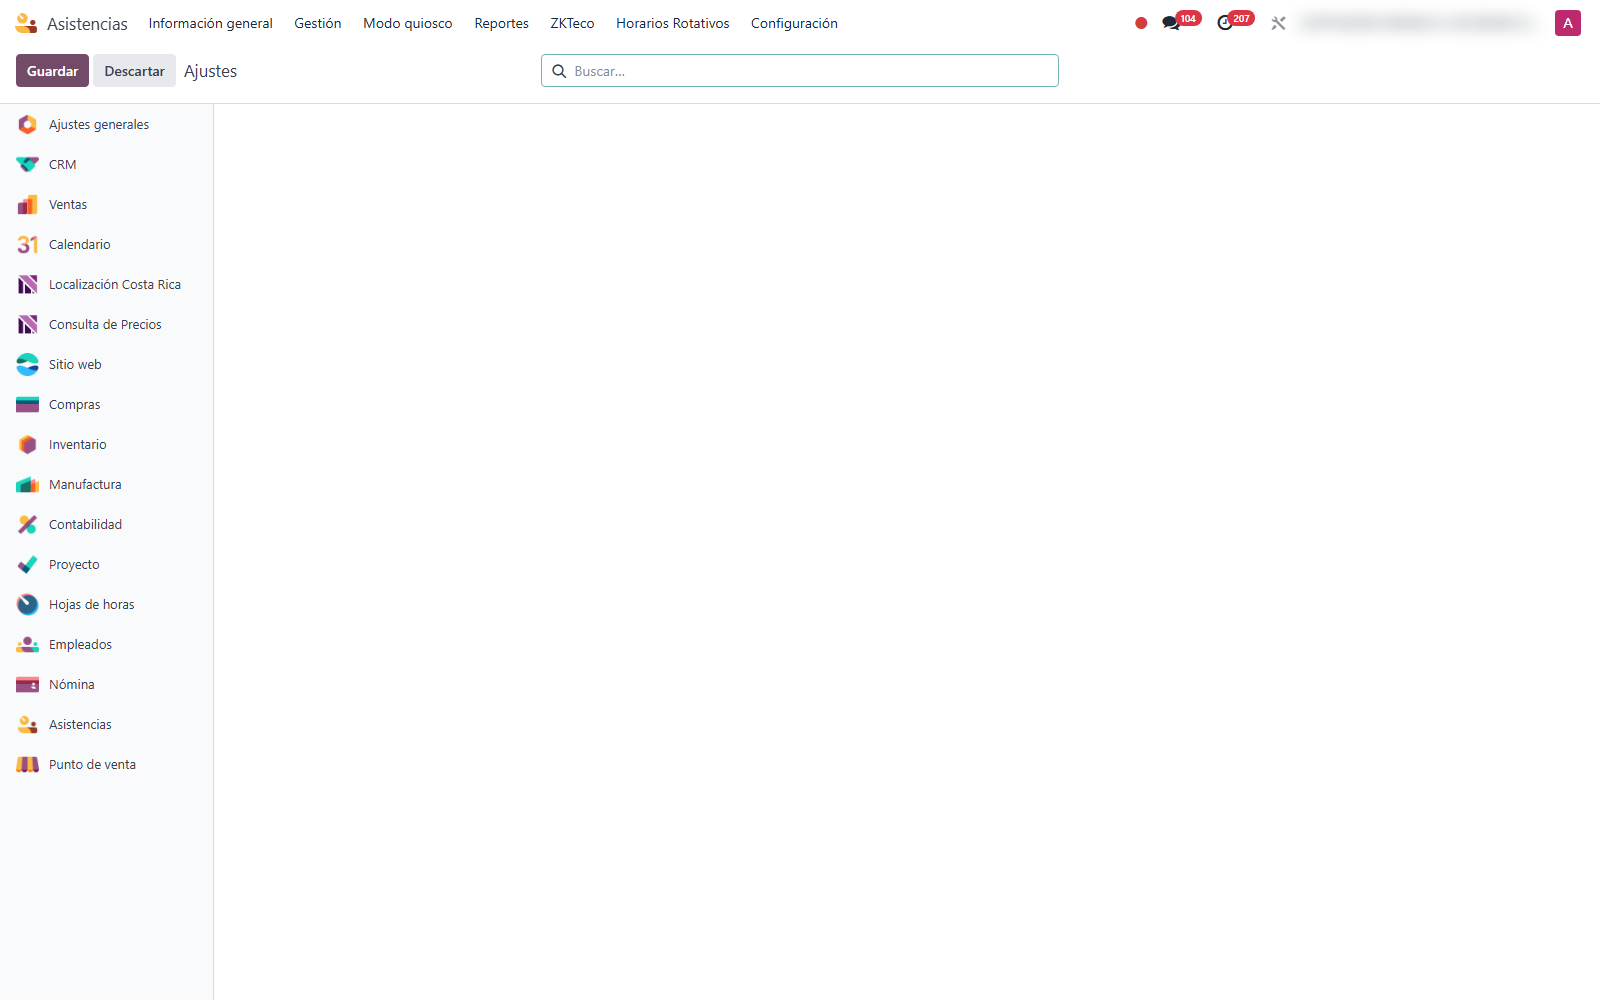
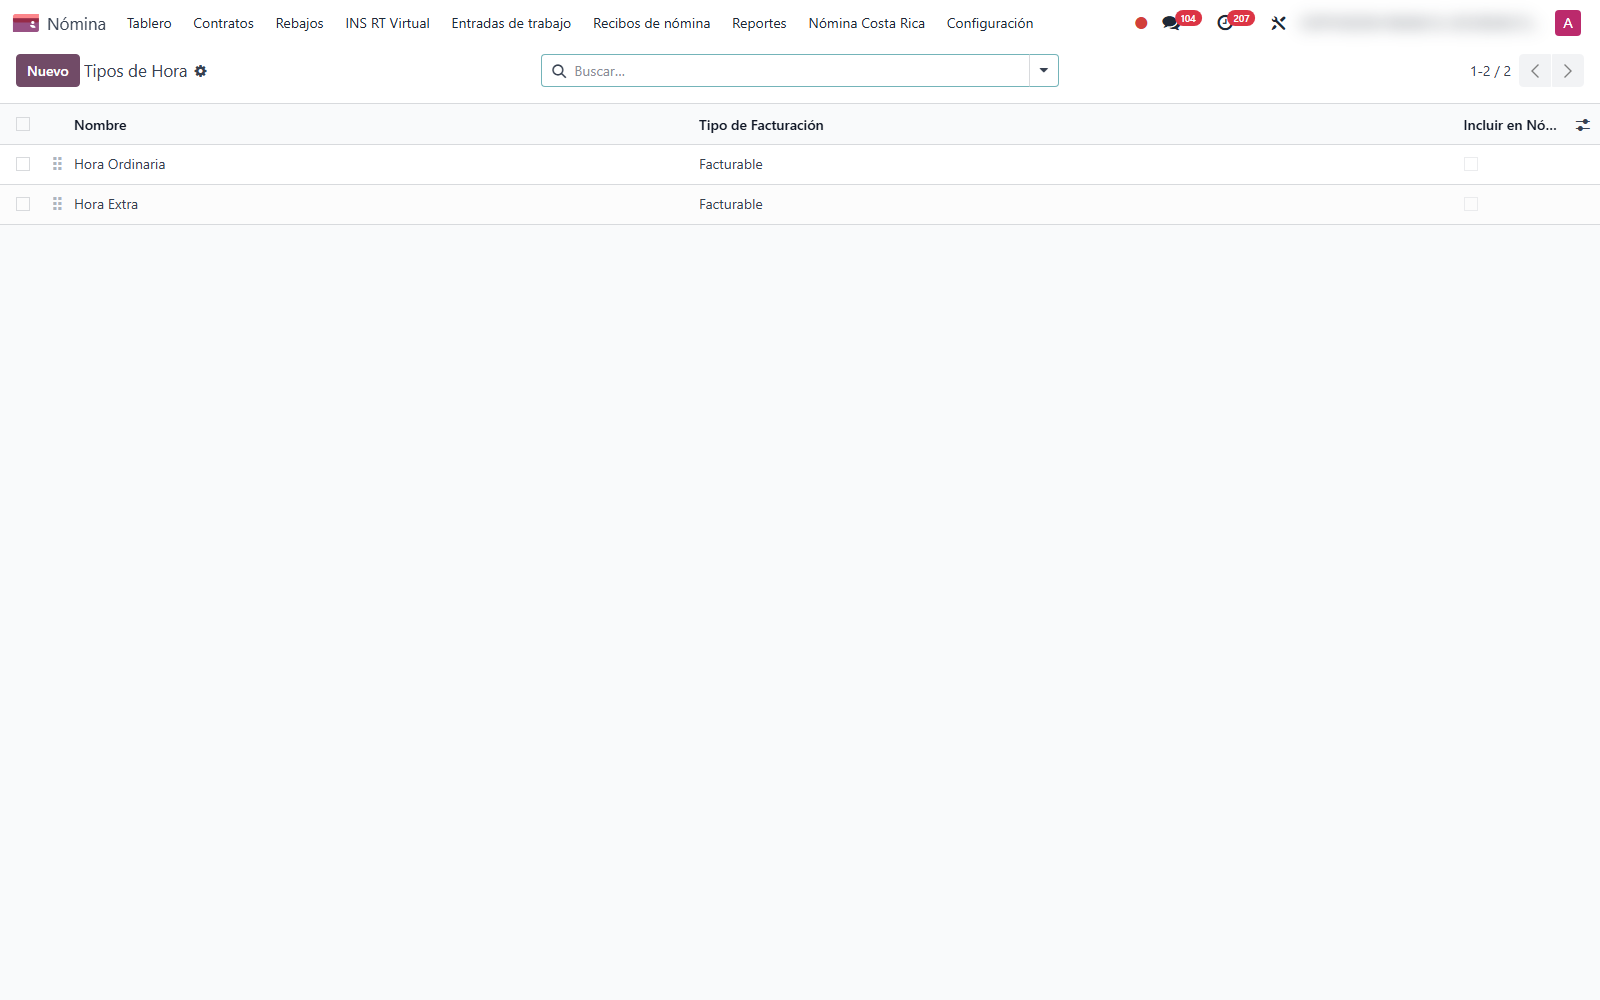
FEAT: agregar módulo Suite de Nómina Costa Rica al portafolio
- Página de detalle en projects/suite-nomina-costa-rica.html
- 30 capturas en images/projects/suite-nomina-costa-rica/
- Card agregada al grid de proyectos

diff --git a/projects/suite-nomina-costa-rica.html b/projects/suite-nomina-costa-rica.html
@@ -165,9 +165,9 @@
       </div>
       <div class="suite-gal">
         <figure class="suite-fig"><img loading="lazy" src="../images/projects/suite-nomina-costa-rica/s6_1.png" alt="Jornadas y Asistencia 1"><figcaption>Tipos de jornada laboral con sus horas y códigos</figcaption></figure>
-        <figure class="suite-fig"><img loading="lazy" src="../images/projects/suite-nomina-costa-rica/s6_2.png" alt="Jornadas y Asistencia 2"><figcaption>Detalle de una jornada con su código de nómina</figcaption></figure>
-        <figure class="suite-fig"><img loading="lazy" src="../images/projects/suite-nomina-costa-rica/s6_3.png" alt="Jornadas y Asistencia 3"><figcaption>Tipos de hora para la nómina</figcaption></figure>
-        <figure class="suite-fig"><img loading="lazy" src="../images/projects/suite-nomina-costa-rica/s6_4.png" alt="Jornadas y Asistencia 4"><figcaption>Configuración del reloj marcador ZKTeco</figcaption></figure>
+        <figure class="suite-fig"><img loading="lazy" src="../images/projects/suite-nomina-costa-rica/s6_2.png" alt="Jornadas y Asistencia 2"><figcaption>Horario rotativo del empleado con integración a nómina</figcaption></figure>
+        <figure class="suite-fig"><img loading="lazy" src="../images/projects/suite-nomina-costa-rica/s6_3.png" alt="Jornadas y Asistencia 3"><figcaption>Detalle de una jornada con su código de nómina</figcaption></figure>
+        <figure class="suite-fig"><img loading="lazy" src="../images/projects/suite-nomina-costa-rica/s6_4.png" alt="Jornadas y Asistencia 4"><figcaption>Tipos de hora para la nómina</figcaption></figure>
       </div>
     </section>
 